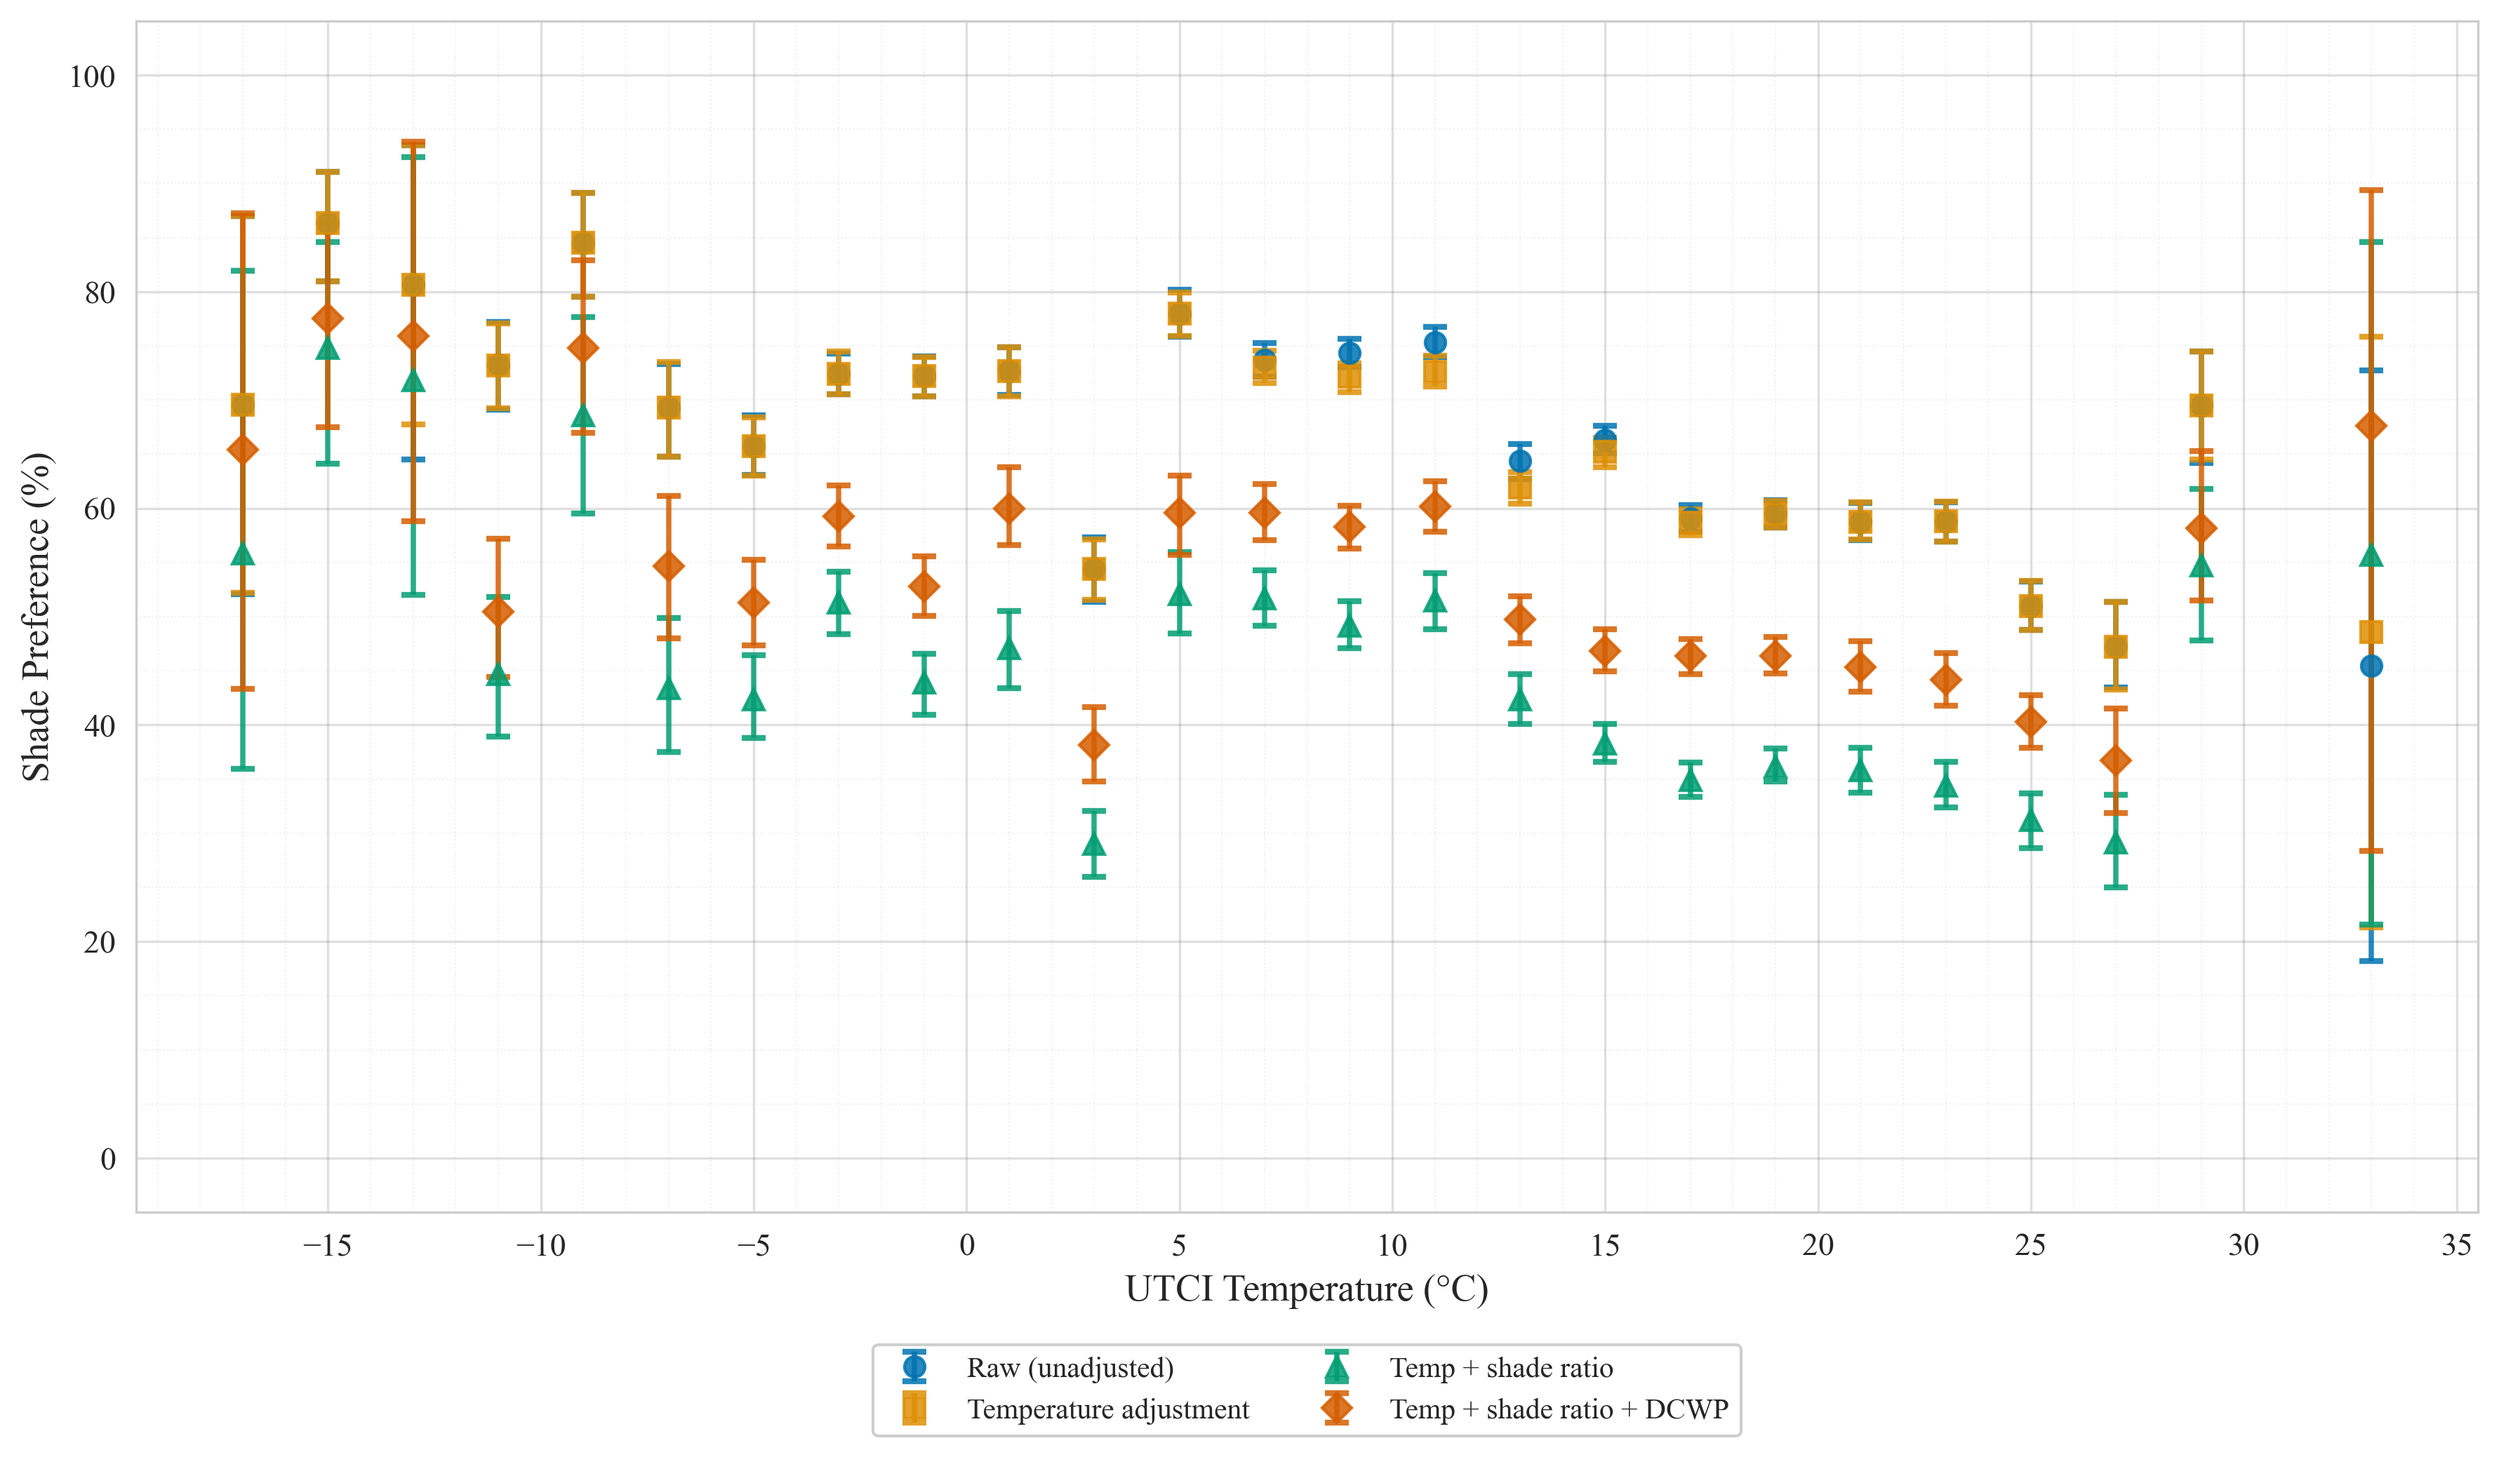
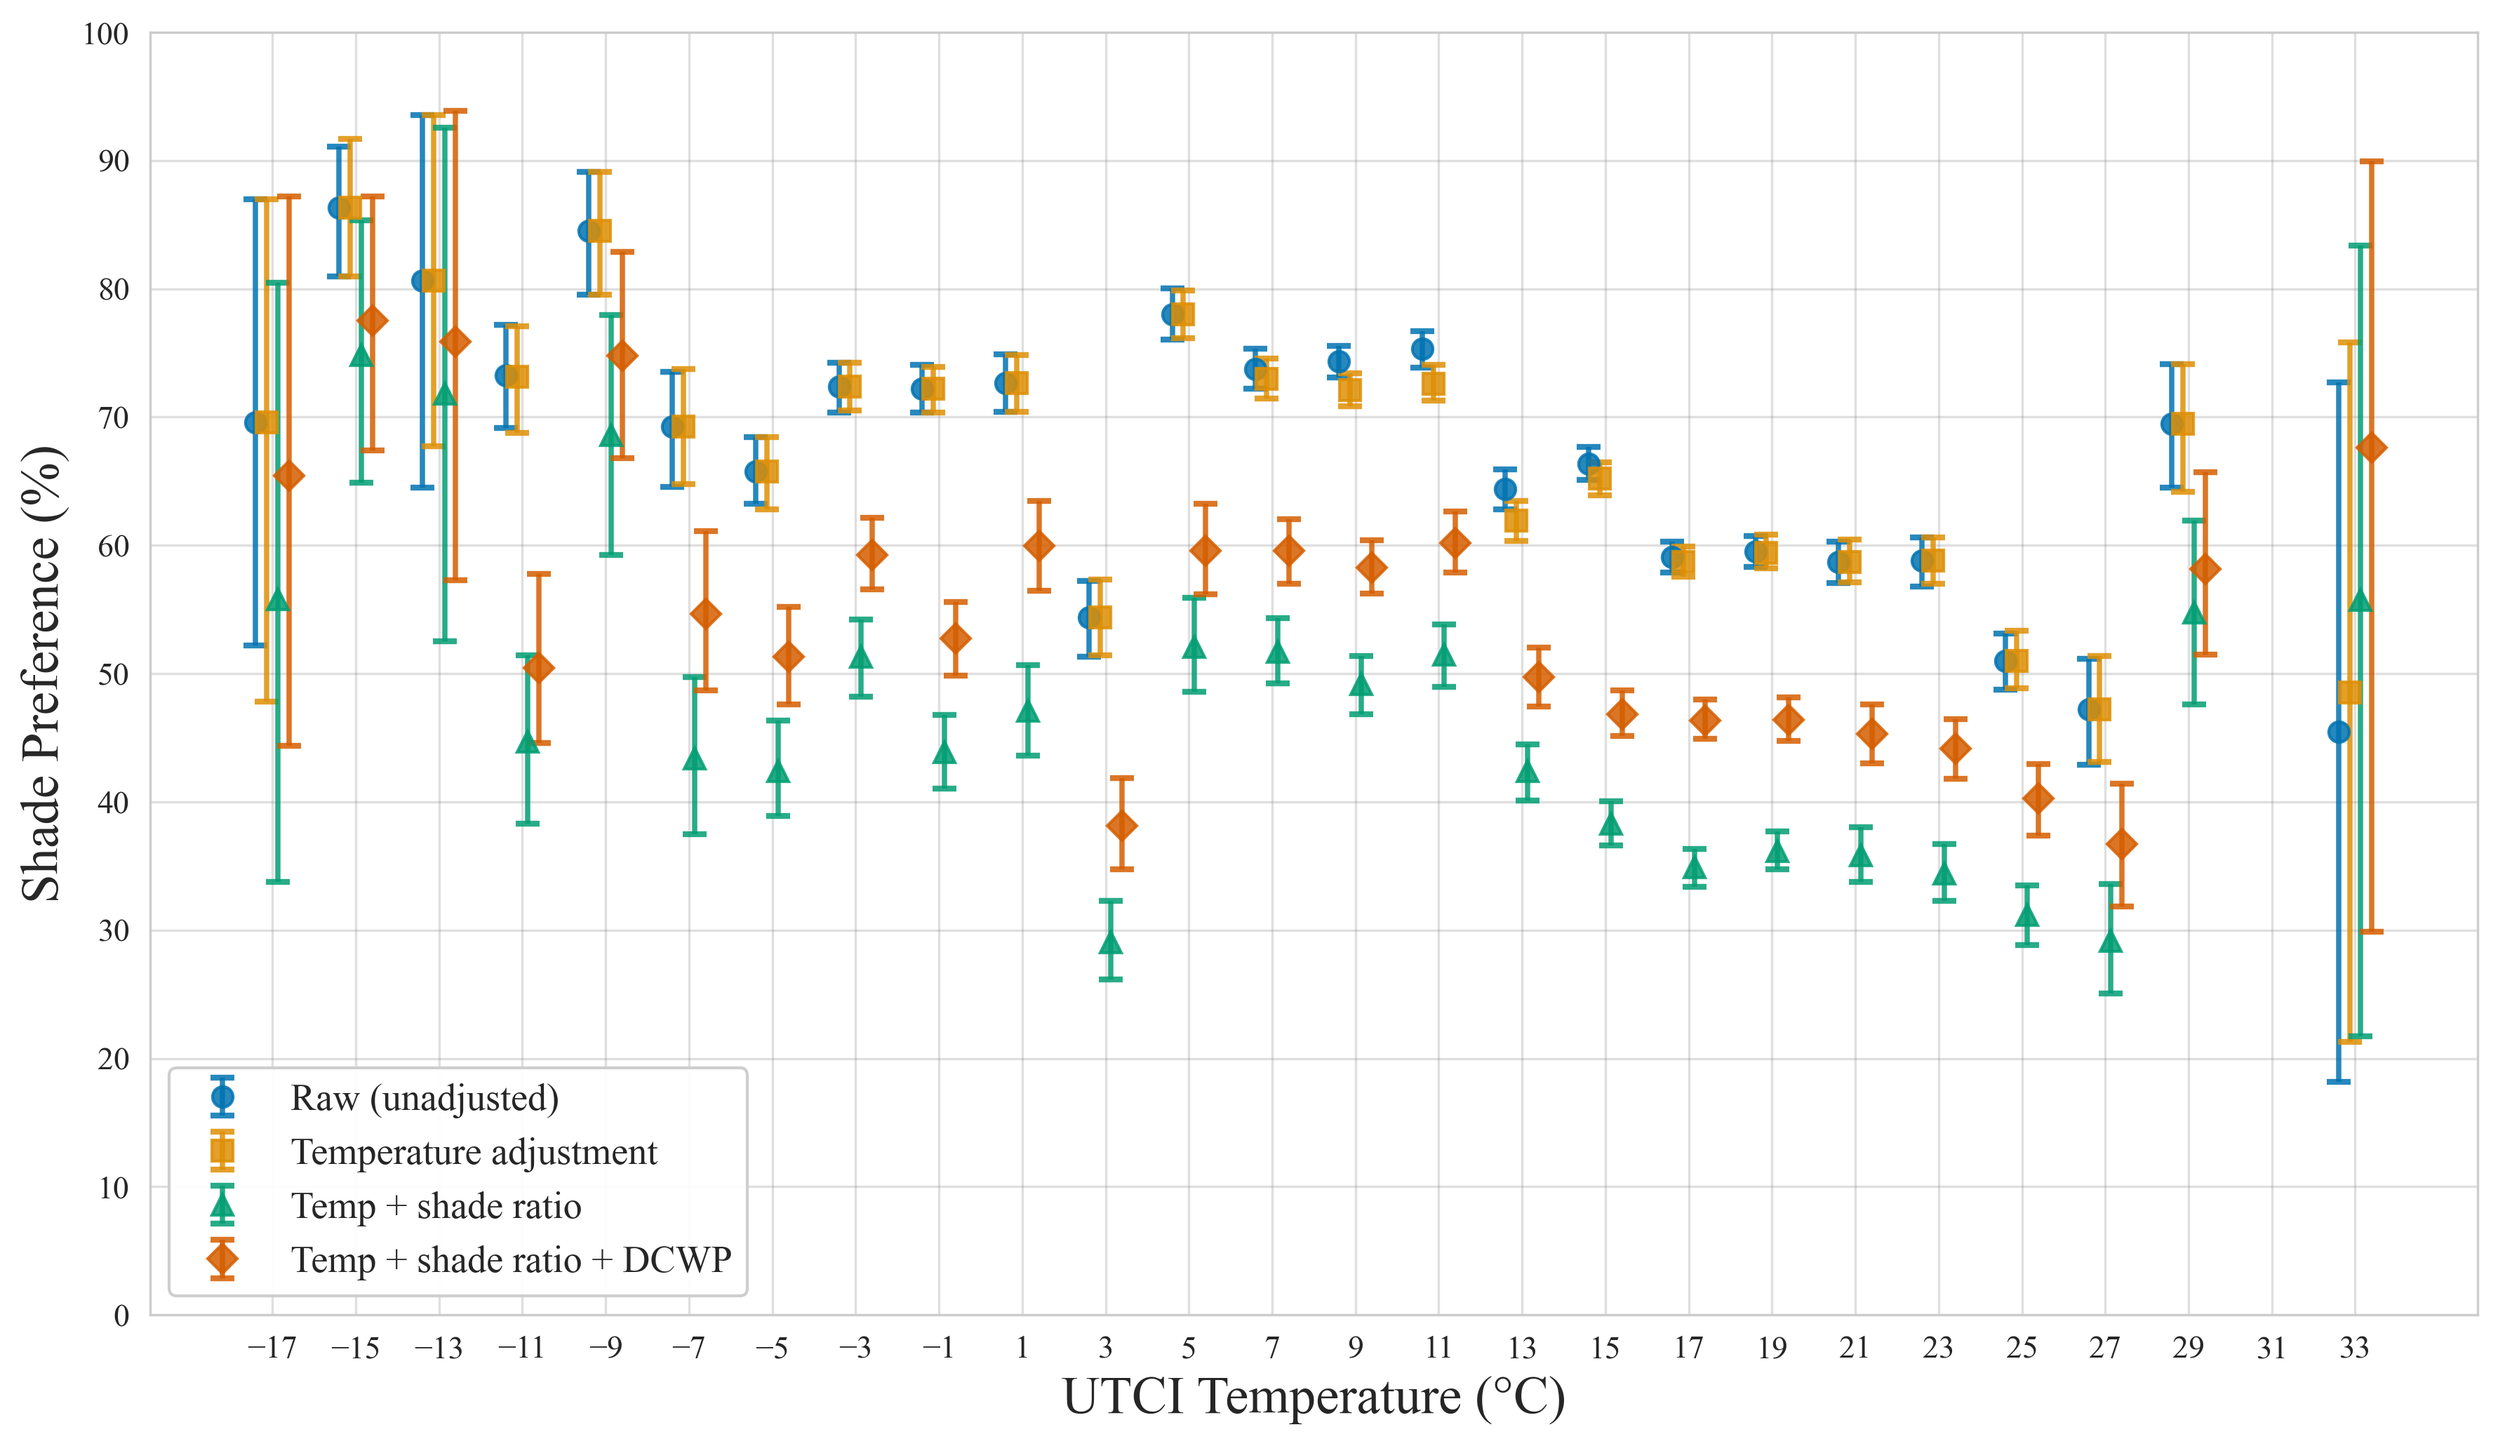
Checkpoint before modifying shade preference adjustment progression plot

diff --git a/scripts/ml/evaluate_models_and_visualize.py b/scripts/ml/evaluate_models_and_visualize.py
@@ -25,7 +25,7 @@ torch.manual_seed(42)
 
 # Configuration
 VIT_MODEL_PATH = "outputs/models/vit_binary.pth"
-YOLO_MODEL_PATH = "outputs/models/sunny_batch_train6/weights/best.pt"
+YOLO_MODEL_PATH = "models/yolo_best.pt"
 OUTPUT_DIR = Path("outputs/model_evaluation")
 SAMPLES_DIR = OUTPUT_DIR / "sample_images"
 OUTPUT_DIR.mkdir(parents=True, exist_ok=True)
